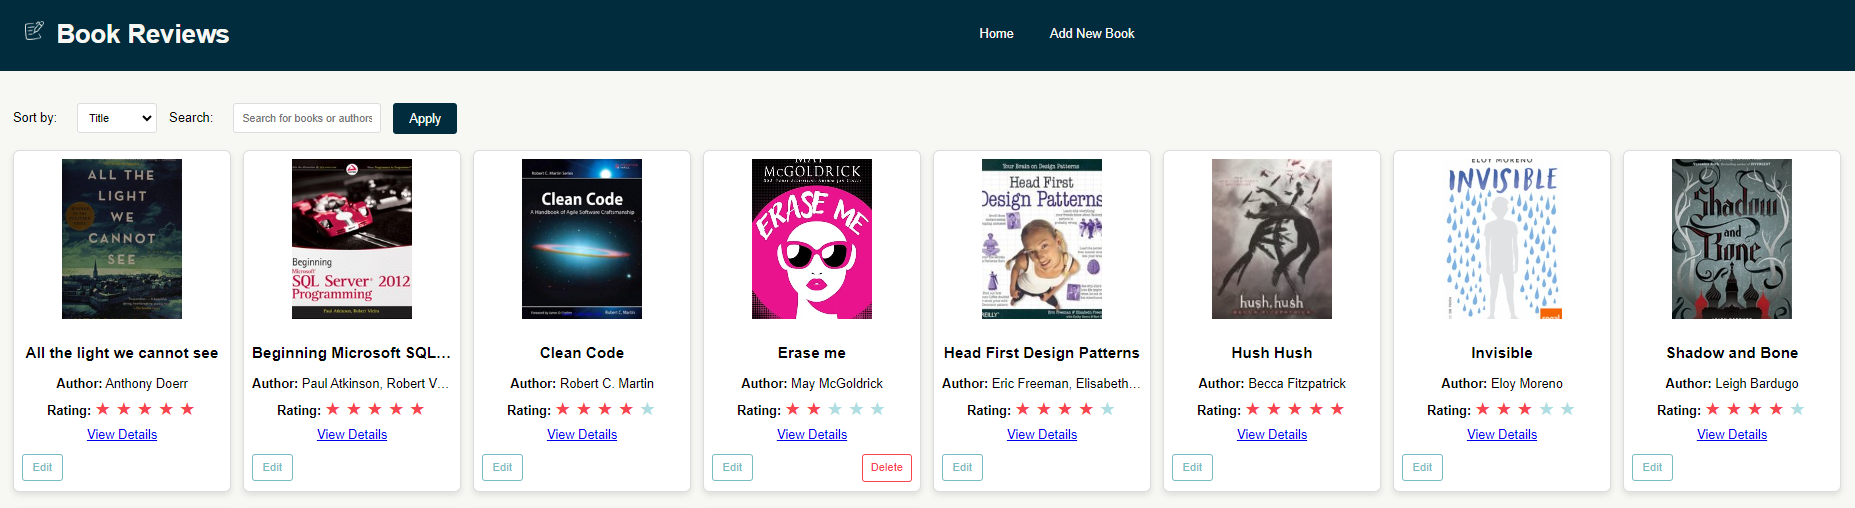
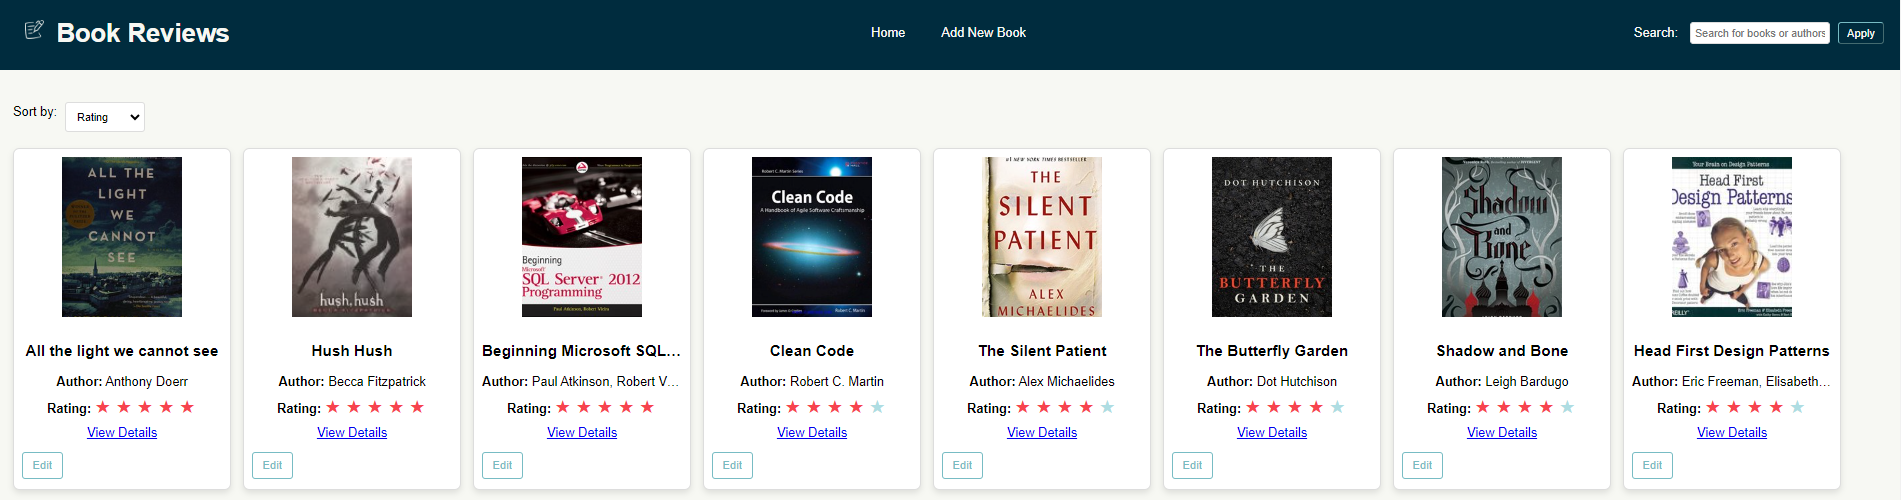
Fixed review line breaks display and remove commented code and unnecessary styles

diff --git a/public/styles/main.css b/public/styles/main.css
@@ -500,13 +500,6 @@ main {
     gap: 10px; /* Space between items */
 }
 
-/* Style for form elements in the right group (Search) */
-.search-sort-container .right-group {
-    display: flex;
-    flex-direction: row; /* Align items horizontally */
-    gap: 10px; /* Space between items */
-}
-
 .search-sort-container label {
     margin-right: 10px;
 }
@@ -517,35 +510,10 @@ main {
     border-radius: 4px;
 }
 
-.search-sort-container input[type="text"] {
-    padding: 10px;
-    border: 1px solid #ddd;
-    border-radius: 4px;
-    flex: 1;
-}
-
 /* Style for individual form elements */
 .search-sort-container label,
-.search-sort-container select,
-.search-sort-container input[type="text"],
-.search-sort-container button {
+.search-sort-container select {
     margin: 0; /* Remove default margin */
-}
-
-.search-sort-container button {
-    background-color: #002C3E;
-    color: #F7F8F3;
-    border: none;
-    padding: 10px 20px;
-    border-radius: 4px;
-    cursor: pointer;
-    font-size: 16px;
-    transition: background-color 0.3s, color 0.3s;
-}
-
-.search-sort-container button:hover {
-    background-color: #78BCC4; /* Light blue background on hover */
-    color: #002C3E; /* Dark text color on hover */
 }
 
 /* Responsive adjustments */
@@ -554,14 +522,9 @@ main {
         flex-direction: column; /* Stack elements vertically */
     }
 
-    .search-sort-container .left-group,
-    .search-sort-container .right-group {
+    .search-sort-container .left-group {
         flex-direction: column; /* Stack items within each group vertically */
         width: 100%; /* Full width on smaller screens */
-    }
-
-    .search-sort-container .right-group {
-        margin-top: 10px; /* Add margin to separate from left group */
     }
 }
 

diff --git a/index.js b/index.js
@@ -9,6 +9,7 @@ import axios from 'axios';
 import pg from 'pg';
 import path from 'path';
 import { __dirname } from './utils.js'; // Import the utility
+import { formatReviewText } from './utils.js'
 import methodOverride from 'method-override';   // To process POST calls and route them to PUT or DELETE routes if necesary.
 
 // Initialize Express app
@@ -35,6 +36,9 @@ app.use(methodOverride('_method'));                         // Middleware to par
 
 app.set('view engine', 'ejs');
 app.set('views', path.join(__dirname, 'views'));
+
+// Make the function available in all templates
+app.locals.formatReviewText = formatReviewText;
 
 // Routes
 

diff --git a/utils.js b/utils.js
@@ -3,3 +3,7 @@ import { dirname } from 'path';
 
 // Get __dirname in ES modules
 export const __dirname = dirname(fileURLToPath(import.meta.url));
+
+export function formatReviewText(reviewText) {
+    return reviewText.replace(/\n/g, '<br>');
+}
